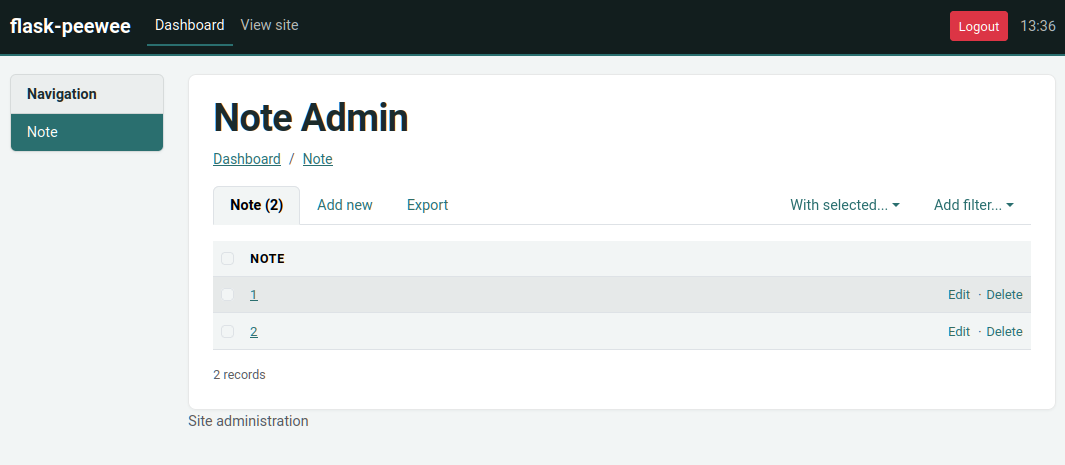
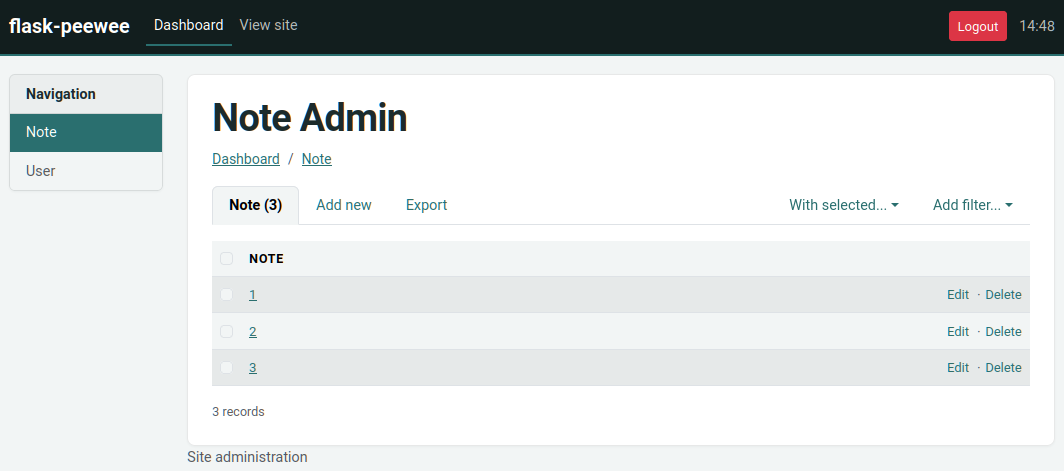
New screenshots, doc cleanups

diff --git a/flask_peewee/templates/admin/panels/base.html b/flask_peewee/templates/admin/panels/base.html
@@ -1,5 +1,5 @@
 <div class="admin-panel col-md-6 mb-3">
-  <div class="card h-100">
+  <div class="card">
     <div class="card-header"><h5 class="mb-0">{% block panel_title %}{% endblock %}</h5></div>
     <div class="card-body panel-content">
       {% block panel_content %}{% endblock %}

diff --git a/example/admin.py b/example/admin.py
@@ -22,15 +22,15 @@ class NotePanel(AdminPanel):
             if request.form.get('message'):
                 Note.create(
                     user=auth.get_logged_in_user(),
-                    message=request.form['message'],
-                )
+                    message=request.form['message'])
+
         next = request.form.get('next') or self.dashboard_url()
         return redirect(next)
 
     def get_context(self):
-        return {
-            'note_list': Note.select().order_by(Note.created_date.desc()).paginate(1, 3)
-        }
+        # Get the 3 latest notes.
+        notes = Note.select().order_by(Note.created_date.desc()).paginate(1, 3)
+        return {'note_list': notes}
 
 class UserStatsPanel(AdminPanel):
     template_name = 'admin/user_stats.html'
@@ -45,7 +45,7 @@ class UserStatsPanel(AdminPanel):
         }
 
 
-admin = Admin(app, auth, branding='Example Site')
+admin = Admin(app, auth, branding='Example Site')#, theme='crux')
 
 
 class MessageAdmin(ModelAdmin):

diff --git a/docs/conf.py b/docs/conf.py
@@ -40,8 +40,9 @@ source_suffix = '.rst'
 master_doc = 'index'
 
 # General information about the project.
-project = u'flask-peewee'
-copyright = u'2011, charles leifer'
+import datetime
+project = 'flask-peewee'
+copyright = '%s, charles leifer' % (datetime.datetime.now().year)
 
 # The version info for the project you're documenting, acts as replacement for
 # |version| and |release|, also used in various other places throughout the
@@ -91,7 +92,7 @@ pygments_style = 'sphinx'
 
 # The theme to use for HTML and HTML Help pages.  See the documentation for
 # a list of builtin themes.
-html_theme = 'flask'
+html_theme = 'alabaster'
 
 html_theme_options = {
     'index_logo': 'peewee.jpg',

diff --git a/docs/admin.rst b/docs/admin.rst
@@ -10,14 +10,15 @@ application content.
 
 Here's a screen-shot of the admin dashboard:
 
-.. image:: fp-admin.jpg
+.. image:: fp-admin.png
 
 Getting started
 ---------------
 
 To get started with the admin, there are just a couple steps:
 
-1. Instantiate an :py:class:`Auth` backend for your project -- this component is responsible for providing the security for the admin area
+1. Instantiate an :py:class:`Auth` backend for your project -- this component
+   is responsible for providing the security for the admin area
 
     .. code-block:: python
 
@@ -42,7 +43,8 @@ To get started with the admin, there are just a couple steps:
 
         admin = Admin(app, auth)
 
-3. Register any :py:class:`ModelAdmin` or :py:class:`AdminPanel` objects you would like to expose via the admin
+3. Register any :py:class:`ModelAdmin` or :py:class:`AdminPanel` objects you
+   would like to expose via the admin
 
     .. code-block:: python
 
@@ -59,7 +61,6 @@ To get started with the admin, there are just a couple steps:
 
         # after all models and panels are registered, configure the urls
         admin.setup()
-
 
 .. note::
 
@@ -79,7 +80,7 @@ which looks like this:
         content = TextField()
         pub_date = DateTimeField(default=datetime.datetime.now)
 
-        def __unicode__(self):
+        def __str__(self):
             return '%s: %s' % (self.user, self.content)
 
 If we were to simply register this model with the admin, it would look something
@@ -92,7 +93,7 @@ like this:
 
     admin.setup()
 
-.. image:: fp-message-admin.jpg
+.. image:: fp-message-admin-plain.png
 
 A quick way to improve the appearance of this view is to specify which columns
 to display.  To start customizing how the ``Message`` model is displayed in the
@@ -104,14 +105,18 @@ admin, we'll subclass :py:class:`ModelAdmin`.
 
     class MessageAdmin(ModelAdmin):
         columns = ('user', 'content', 'pub_date',)
+        foreign_key_lookups = {'user': 'username'}
+        filter_fields = ('user', 'content', 'pub_date', 'user__username')
+        search_fields = ('content', 'user__username')
 
     admin.register(Message, MessageAdmin)
 
     admin.setup()
 
-Now the admin shows all the columns and they can be clicked to sort the data:
+Now the admin shows all the columns and they can be clicked to sort the data.
+Filtering is available, as is search:
 
-.. image:: fp-message-admin-2.jpg
+.. image:: fp-message-admin.png
 
 Suppose privacy is a big concern, and under no circumstances should a user be
 able to see another user's messages -- even in the admin.  This can be done by overriding
@@ -134,7 +139,7 @@ for an individual ``Model``:
 .. code-block:: python
 
     class MessageAdmin(ModelAdmin):
-        columns = ('user', 'content', 'pub_date',)
+        # ...
 
         def get_template_overrides(self):
             # override the edit template with a custom one
@@ -205,9 +210,9 @@ single ``<select>`` -- the case worth avoiding on a large table.  With it, the
 field becomes a button showing the current selection; clicking it opens a modal
 with a paginated, type-ahead list:
 
-.. image:: fp-admin-btn-form.png
+.. image:: fp-message-fk-btn.png
 
-.. image:: fp-admin-modal.png
+.. image:: fp-message-fk-modal.png
 
 
 Creating admin panels
@@ -230,9 +235,7 @@ Some example use-cases for AdminPanels might be:
 Referring to the `example app <https://github.com/coleifer/flask-peewee/tree/master/example>`_,
 we'll look at a simple panel that allows administrators to leave "notes" in the admin area:
 
-.. image:: fp-note-panel.jpg
-
-.. image:: fp-note-panel-2.jpg
+.. image:: fp-notes-panel.png
 
 Here's what the panel class looks like:
 
@@ -251,15 +254,15 @@ Here's what the panel class looks like:
                 if request.form.get('message'):
                     Note.create(
                         user=auth.get_logged_in_user(),
-                        message=request.form['message'],
-                    )
+                        message=request.form['message'])
+
             next = request.form.get('next') or self.dashboard_url()
             return redirect(next)
 
         def get_context(self):
-            return {
-                'note_list': Note.select().order_by(Note.created_date.desc()).limit(3)
-            }
+            # Get the 3 latest notes.
+            notes = Note.select().order_by(Note.created_date.desc()).paginate(1, 3)
+            return {'note_list': notes}
 
 When the admin dashboard is rendered (``/admin/``), all panels are rendered using
 the templates the specify.  The template is rendered with the context provided
@@ -277,8 +280,8 @@ And the template:
       {% endfor %}
       <form method="post" action="{{ url_for(panel.get_url_name('create')) }}">
         <input type="hidden" value="{{ request.url }}" />
-        <p><textarea name="message"></textarea></p>
-        <p><button type="submit" class="btn small">Save</button></p>
+        <p><textarea name="message" class="form-control"></textarea></p>
+        <button type="submit" class="btn btn-secondary btn-sm">Save</button>
       </form>
     {% endblock %}
 
@@ -297,7 +300,7 @@ the storage.
 Here's a very simple example of a "photo" model and a ``ModelAdmin`` that enables
 file uploads.
 
-.. code-block:: models.py
+.. code-block:: python
 
     # models.py
     import datetime
@@ -350,7 +353,7 @@ file uploads.
         def get_form(self, adding=False):
             class PhotoForm(Form):
                 image = HiddenField()
-                image_file = FileField(u'Image file')
+                image_file = FileField('Image file')
 
             return PhotoForm
 

diff --git a/docs/database.rst b/docs/database.rst
@@ -90,27 +90,29 @@ behavior:
 Other examples
 --------------
 
-To connect to MySQL using authentication:
+Connection pooled Postgres or MySQL:
+
+.. code-block:: python
+
+    DATABASE = {
+        'name': 'my_app',
+        'engine': 'playhouse.pool.PooledPostgresqlDatabase',
+        # 'engine': 'playhouse.pool.PooledMySQLDatabase',
+        # 'user': 'postgres',
+        # 'password': 'secret password',
+        # 'host': '127.0.0.1',
+    }
+
+To connect to Postgres / MySQL without pool:
 
 .. code-block:: python
 
     DATABASE = {
         'name': 'my_database',
-        'engine': 'peewee.MySQLDatabase',
+        'engine': 'peewee.PostgresqlDatabase',
+        # 'engine': 'peewee.MySQLDatabase',
         'user': 'db_user',
-        'passwd': 'secret password',
-    }
-
-To connect to Postgresql using the playhouse ``PostgresqlExtDatabase``:
-
-.. code-block:: python
-
-    DATABASE = {
-        'name': 'pg_database',
-        'engine': 'playhouse.PostgresqlExtDatabase',
-        'host': '127.0.0.1',
-        'user': 'postgres',
-        'port': 5432,
+        'password': 'secret password',
     }
 
 We can specify the database directly, as well:
@@ -118,5 +120,4 @@ We can specify the database directly, as well:
 .. code-block:: python
 
     pg_db = PostgresqlDatabase('pg_database')
-
     db = Database(app, pg_db)

diff --git a/docs/rest-api.rst b/docs/rest-api.rst
@@ -1,10 +1,10 @@
 .. _rest-api:
 
-REST Api
+REST API
 ========
 
 flask-peewee comes with some tools for exposing your project's models via a
-RESTful API.  There are several components to the ``rest`` module, but the basic
+REST API.  There are several components to the ``rest`` module, but the basic
 setup is to create an instance of :py:class:`RestAPI` and then register your
 project's models with subclasses of :py:class:`RestResource`.
 

diff --git a/docs/api.rst b/docs/api.rst
@@ -1152,7 +1152,7 @@ Utilities
             active = Blog.select().where(Blog.active==True)
             return object_list('blog/index.html', active)
 
-    .. code-block:: html
+    .. code-block:: jinja
 
         <!-- template -->
         {% for blog in object_list %}

diff --git a/docs/index.rst b/docs/index.rst
@@ -22,7 +22,6 @@ Contents:
    auth
    rest-api
    utils
-   gevent
 
 API in depth:
 